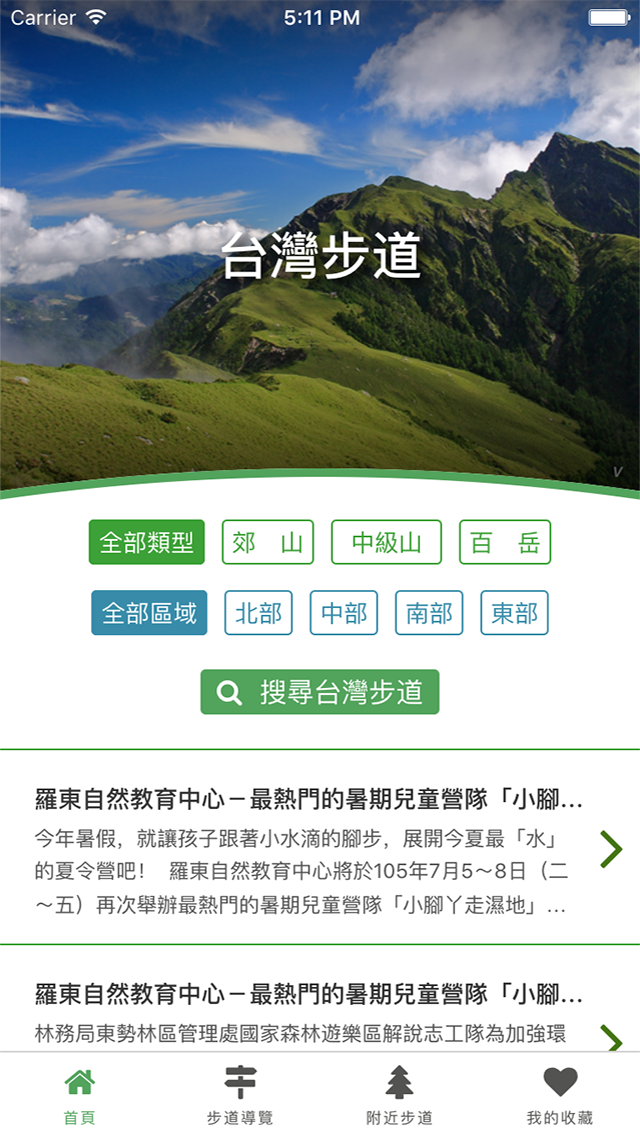
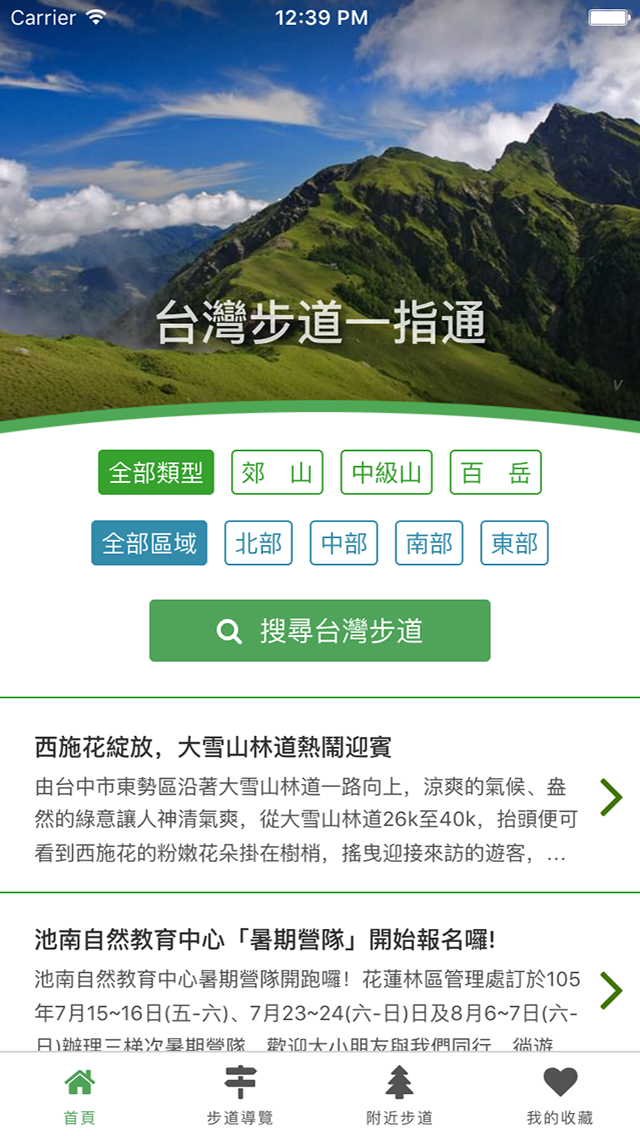
update
聯絡我們-email修改成office
資料來源美化
評論頁面加頭像
內文換加陰影
landpages 背景圖修改
logo 小一點

diff --git a/public/gohiking/index.html b/public/gohiking/index.html
@@ -51,7 +51,7 @@
             <span class="icon-bar"></span>
             <span class="icon-bar"></span>
           </button>
-          <a class="navbar-brand" href="#welcome"><img width="140" src="assets/img/LOGO.png"></a>
+          <a class="navbar-brand" href="#welcome"><img width="110" src="assets/img/LOGO.png"></a>
         </div>
 
         <div id="navbar" class="collapse navbar-collapse">
@@ -262,7 +262,7 @@
                 從上百條步道中找到理想的步道，竟然也能如此簡單！
               </p>
               <p class="delay_2" data-animate-in="animateUp">
-                任何人都能輕鬆快速地找到適合自己的步道，只需要點選欲尋找的區域和類型，我們能立即篩選出最適合你的步道。想要尋找北部的中級山嗎？沒問題！步道一指通讓你上山無懼、下山寫意！
+                任何人都能輕鬆快速地找到適合自己的步道，只需要點選欲尋找的區域和類型，我們能立即篩選出最適合你的步道。想要尋找中部的郊山嗎？沒問題！步道一指通讓你上山無懼、下山寫意！
               </p>
 
             </div>
@@ -336,13 +336,33 @@
                     <p>
                       “ 登山步道資料好豐富！發現好多之前不知道的步道，假日又有新去處可以探索了，感謝開發團隊的用心整理！ ”
                     </p>
-                    <p>Gloria Wang - Climber</p>
+                    <p><img style="border-radius:30px;margin-right:10px;" width="60" src="./assets/img/avatar/people1.png">
+                      Manish Wang - Climber
+                    </p>
                   </div>
                   <div class="item">
                     <p>
                       “ 第一次使用步道一指通，意外發現 3 條景色優美的登山路線，而且只要半小時車程就能抵達，真是太棒了！ ”
                     </p>
-                    <p>Ryan Lee - Mountain Lover</p>
+                    <p><img style="border-radius:30px;margin-right:10px;" width="60" src="./assets/img/avatar/people2.png">
+                      Christine Yeh - Travel Blogger
+                    </p>
+                  </div>
+                  <div class="item">
+                    <p>
+                      “ 第一次使用步道一指通，意外發現 3 條景色優美的登山路線，而且只要半小時車程就能抵達，真是太棒了！ ”
+                    </p>
+                    <p><img style="border-radius:30px;margin-right:10px;" width="60" src="./assets/img/avatar/people5.png">
+                      Gloria Chen - Hiking Lover
+                    </p>
+                  </div>
+                  <div class="item">
+                    <p>
+                      “ 第一次使用步道一指通，意外發現 3 條景色優美的登山路線，而且只要半小時車程就能抵達，真是太棒了！ ”
+                    </p>
+                    <p><img style="border-radius:30px;margin-right:10px;" width="60" src="./assets/img/avatar/people4.png">
+                      Ryan Lee - Mountain Lover
+                    </p>
                   </div>
                 </div> <!-- / .carousel-inner -->
 
@@ -350,6 +370,8 @@
                 <ol class="carousel-indicators delay_2" data-animate-in="animateUp">
                   <li data-target="#carousel_custom" data-slide-to="0" class="active"></li>
                   <li data-target="#carousel_custom" data-slide-to="1"></li>
+                  <li data-target="#carousel_custom" data-slide-to="2"></li>
+                  <li data-target="#carousel_custom" data-slide-to="3"></li>
                 </ol>
 
               </div> <!-- / .carousel -->
@@ -376,7 +398,7 @@
                 <p>「台灣步道一指通」App 由創科資訊團隊開發，如有任何意見及建議歡迎與我們聯繫！</p>
                 <ul style="line-height: 200%">
                   <li>聯絡電話：(04) 2201-9020</li>
-                  <li>Email：kyle@trunk.studio</li>
+                  <li>Email：<a href="http://trunk.studio/" style="color: #333;" class="btn-link">office@trunk.studio</a></li>
                   <li>官方網站：<a href="http://trunk.studio/" style="color: #333;" class="btn-link">http://trunk.studio/</a></li>
                 </ul>
               </form>

diff --git a/public/gohiking/assets/css/styles_light.css b/public/gohiking/assets/css/styles_light.css
@@ -7509,12 +7509,12 @@ section {
   width: 60px;
   height: 60px;
   line-height: 22px;
-  color: #333;
+  color: #444;
   text-align: center;
   cursor: pointer;
-  border: 1px solid #333;
+  border: 1px solid #444;
   border-radius: 50%;
-  opacity: .4;
+  opacity: 1;
   -webkit-transition: all .3s cubic-bezier(.39, .575, .565, 1);
        -o-transition: all .3s cubic-bezier(.39, .575, .565, 1);
           transition: all .3s cubic-bezier(.39, .575, .565, 1);
@@ -7523,7 +7523,8 @@ section {
 }
 .social-links > ul > li > a:hover {
   text-decoration: none;
-  opacity: 1;
+  border: 1px solid #000;
+  color: #000;
 }
 @media (min-width: 992px) {
   .social-links {
@@ -7717,7 +7718,8 @@ form .form-control:focus {
  * General
  */
 section {
-  text-shadow: none;
+  /*text-shadow: none;*/
+  text-shadow: 0 0 3px #FFF;
 }
 ::-moz-selection {
   color: white;
@@ -7731,7 +7733,7 @@ section {
  * Background image
  */
 .bg-image {
-  background-image: url("../img/bg_7.jpg");
+  background-image: url("../img/bg_5.jpg");
 }
 .bg-image:before {
   background-color: #fff;
